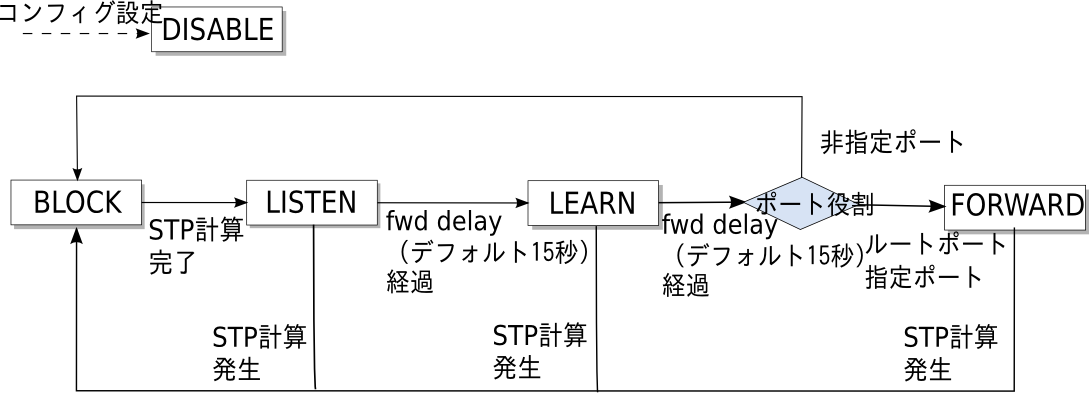
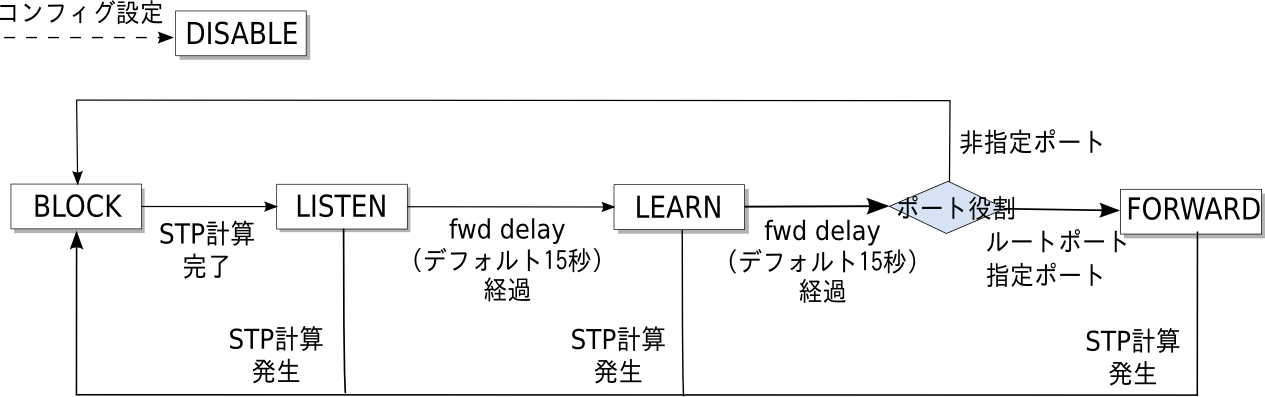
ja/html: 69e08ee stp: update images

diff --git a/ja/html/spanning_tree.html b/ja/html/spanning_tree.html
@@ -155,7 +155,7 @@
 </div></blockquote>
 </li>
 </ol>
-<a class="reference internal image-reference" href="_images/fig33.png"><img alt="_images/fig33.png" class="align-center" src="_images/fig33.png" style="width: 544.5px; height: 196.5px;" /></a>
+<a class="reference internal image-reference" href="_images/fig33.png"><img alt="_images/fig33.png" class="align-center" src="_images/fig33.png" style="width: 632.5px; height: 198.5px;" /></a>
 <p>各ポートは状態に応じてフレーム転送有無などの動作を決定します。</p>
 <table border="1" class="docutils">
 <colgroup>
@@ -796,7 +796,7 @@ listening on s3-eth2, link-type EN10MB (Ethernet), capture size 65535 bytes
 <h3>ライブラリの実装<a class="headerlink" href="#id8" title="このヘッドラインへのパーマリンク">¶</a></h3>
 <div class="section" id="id9">
 <h4>ライブラリ概要<a class="headerlink" href="#id9" title="このヘッドラインへのパーマリンク">¶</a></h4>
-<a class="reference internal image-reference" href="_images/fig81.png"><img alt="_images/fig81.png" class="align-center" src="_images/fig81.png" style="width: 441.2px; height: 281.6px;" /></a>
+<a class="reference internal image-reference" href="_images/fig81.png"><img alt="_images/fig81.png" class="align-center" src="_images/fig81.png" style="width: 448.4px; height: 281.6px;" /></a>
 <p>STPライブラリ(Stpクラスインスタンス)がOpenFlowスイッチのコントローラへの接続を検出すると、Bridgeクラスインスタンス・Portクラスインスタンスが生成されます。各クラスインスタンスが生成・起動された後は、StpクラスインスタンスからのOpenFlowメッセージ受信通知、BridgeクラスインスタンスのSTP計算(ルートブリッジ選択・各ポートの役割選択)、Portクラスインスタンスのポート状態遷移・BPDUパケット送受信が連動し、スパニングツリー機能を実現します。</p>
 </div>
 <div class="section" id="id10">
